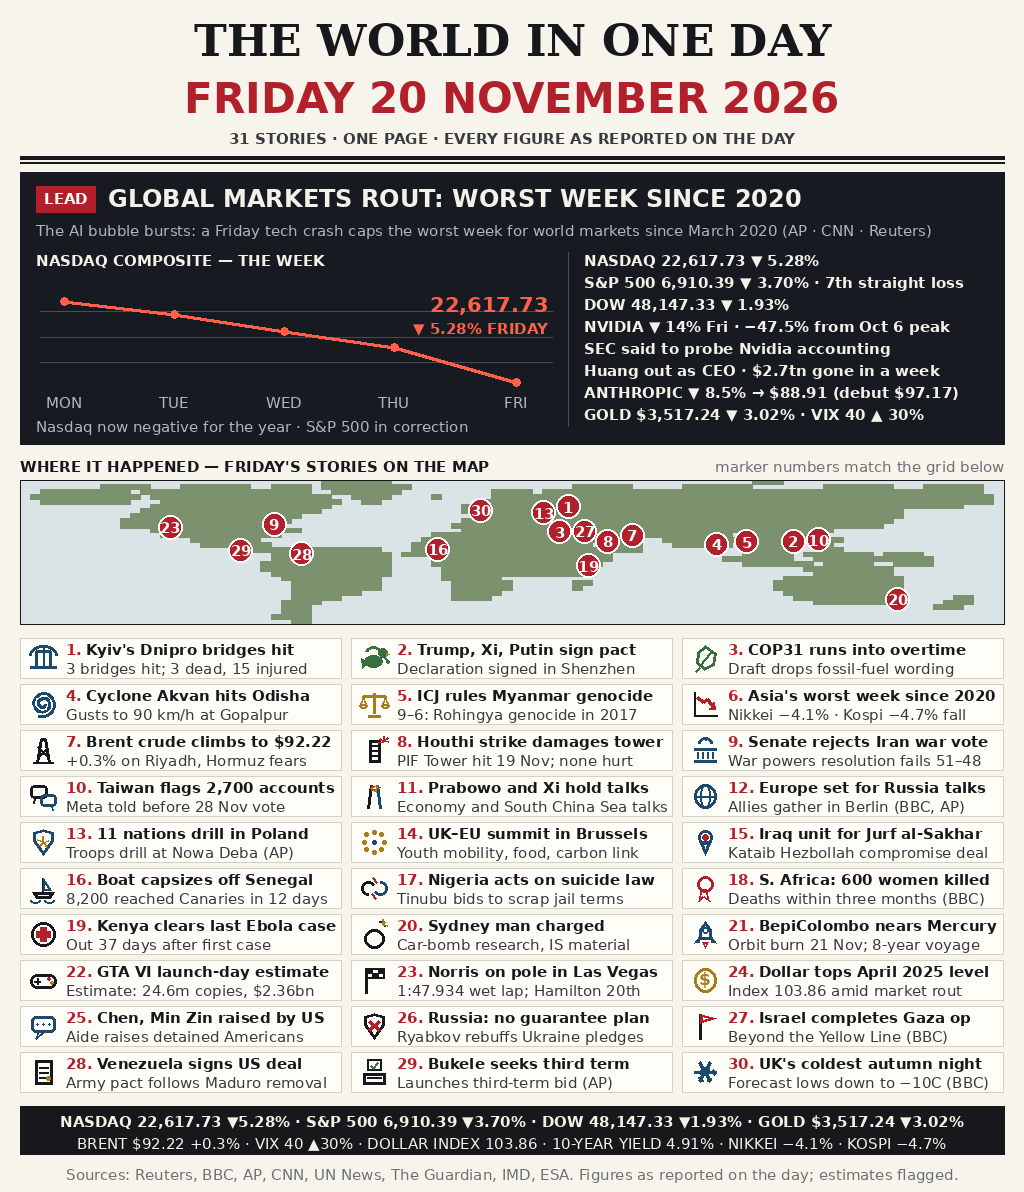
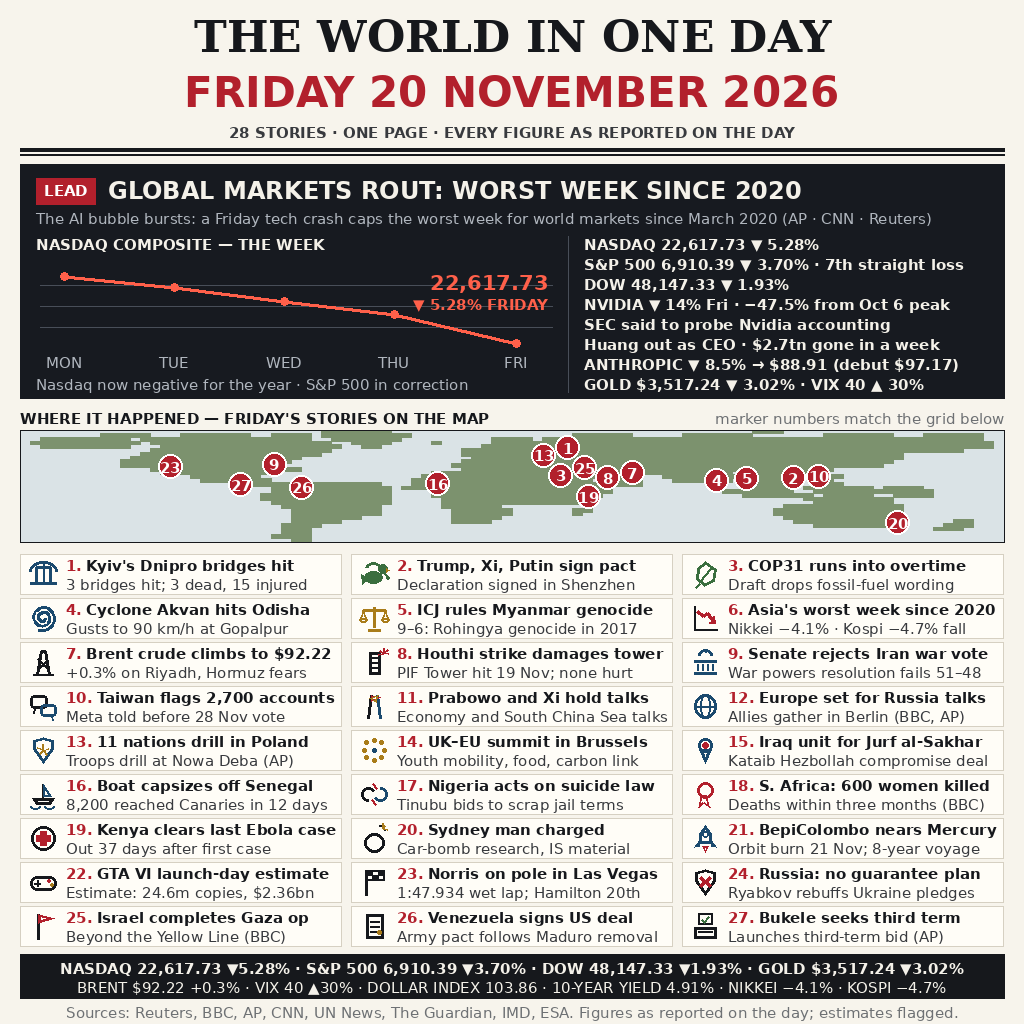
Round 3 fix: canvas 1024x1024 within competition gate

diff --git a/render.py b/render.py
@@ -3,7 +3,7 @@
 
 Draws a single-page broadsheet summing up Friday 20 November 2026:
 a markets-rout lead with a vector chart, a numbered world map, a
-30-story pictogram grid, a closing-figures strip and a sources line.
+27-story pictogram grid, a closing-figures strip and a sources line.
 
 Deterministic: no randomness, no timestamps; two runs of this file
 produce a byte-identical entry.png. In-session only (uses Pillow);
@@ -18,7 +18,7 @@ from PIL import Image, ImageDraw, ImageFont
 HERE = os.path.dirname(os.path.abspath(__file__))
 OUT = os.path.join(HERE, "entry.png")
 
-W, H = 1024, 1192
+W, H = 1024, 1024
 MARGIN = 20
 CW = W - 2 * MARGIN  # content width = 984
 
@@ -137,20 +137,14 @@ STORIES = [
      "Estimate: 24.6m copies, $2.36bn"),
     (23, "checkered", "Norris on pole in Las Vegas",
      "1:47.934 wet lap; Hamilton 20th"),
-    (24, "dollar", "Dollar tops April 2025 level",
-     "Index 103.86 amid market rout"),
-    (25, "chat", "Chen, Min Zin raised by US",
-     "Aide raises detained Americans"),
-    (26, "shieldx", "Russia: no guarantee plan",
+    (24, "shieldx", "Russia: no guarantee plan",
      "Ryabkov rebuffs Ukraine pledges"),
-    (27, "flagpole", "Israel completes Gaza op",
+    (25, "flagpole", "Israel completes Gaza op",
      "Beyond the Yellow Line (BBC)"),
-    (28, "doc", "Venezuela signs US deal",
+    (26, "doc", "Venezuela signs US deal",
      "Army pact follows Maduro removal"),
-    (29, "ballot", "Bukele seeks third term",
+    (27, "ballot", "Bukele seeks third term",
      "Launches third-term bid (AP)"),
-    (30, "snowflake", "UK's coldest autumn night",
-     "Forecast lows down to \u221210C (BBC)"),
 ]
 
 # ----------------------------------------------------------------- map
@@ -192,7 +186,7 @@ MAP_SPANS = [
     [(27, 28)],
 ]
 
-MAP_X, MAP_Y, MAP_W, MAP_H = MARGIN, 480, CW, 144
+MAP_X, MAP_Y, MAP_W, MAP_H = MARGIN, 430, CW, 112
 LON0, LON1 = -170.0, 190.0
 LAT0, LAT1 = 82.0, -58.0
 
@@ -202,8 +196,8 @@ MARKERS = [
     (4, 84.9, 19.3), (5, 95.9, 21.9), (7, 51.5, 27.0),
     (8, 46.7, 24.6), (9, -77.0, 38.9), (10, 121.0, 23.7),
     (13, 21.8, 50.4), (16, -17.2, 14.7), (19, 37.9, -1.3),
-    (20, 151.2, -33.9), (23, -115.1, 36.2), (27, 34.3, 31.4),
-    (28, -66.9, 10.5), (29, -89.2, 13.8), (30, -1.5, 52.5),
+    (20, 151.2, -33.9), (23, -115.1, 36.2), (25, 34.3, 31.4),
+    (26, -66.9, 10.5), (27, -89.2, 13.8),
 ]
 MARKER_R = 12
 MARKER_MIN_DIST = 25.0
@@ -531,36 +525,36 @@ FIT = []  # (label, measured_width, max_width)
 def draw_masthead(d):
     t = "THE WORLD IN ONE DAY"
     FIT.append(("title", d.textlength(t, font=F_TITLE), CW))
-    d.text((W / 2, 14), t, font=F_TITLE, fill=INK, anchor="ma")
+    d.text((W / 2, 10), t, font=F_TITLE, fill=INK, anchor="ma")
     t = "FRIDAY 20 NOVEMBER 2026"
     FIT.append(("date", d.textlength(t, font=F_DATE), CW))
-    d.text((W / 2, 74), t, font=F_DATE, fill=RED, anchor="ma")
-    t = "31 STORIES \u00b7 ONE PAGE \u00b7 EVERY FIGURE AS REPORTED ON THE DAY"
+    d.text((W / 2, 68), t, font=F_DATE, fill=RED, anchor="ma")
+    t = "28 STORIES \u00b7 ONE PAGE \u00b7 EVERY FIGURE AS REPORTED ON THE DAY"
     FIT.append(("kicker", d.textlength(t, font=F_KICKER), CW))
-    d.text((W / 2, 130), t, font=F_KICKER, fill=DARKGREY, anchor="ma")
-    d.rectangle([MARGIN, 156, W - MARGIN, 159], fill=INK)
-    d.rectangle([MARGIN, 162, W - MARGIN, 163], fill=INK)
+    d.text((W / 2, 124), t, font=F_KICKER, fill=DARKGREY, anchor="ma")
+    d.rectangle([MARGIN, 148, W - MARGIN, 151], fill=INK)
+    d.rectangle([MARGIN, 154, W - MARGIN, 155], fill=INK)
 
 
 def draw_lead(d):
-    d.rectangle([MARGIN, 172, W - MARGIN, 444], fill=DARK)
+    d.rectangle([MARGIN, 164, W - MARGIN, 398], fill=DARK)
     tag = "LEAD"
     tw = d.textlength(tag, font=F_BODY_B)
-    d.rectangle([36, 186, 36 + tw + 16, 212], fill=RED)
-    d.text((36 + 8, 190), tag, font=F_BODY_B, fill=(255, 255, 255))
+    d.rectangle([36, 178, 36 + tw + 16, 204], fill=RED)
+    d.text((36 + 8, 182), tag, font=F_BODY_B, fill=(255, 255, 255))
     hx = 36 + tw + 16 + 12
     FIT.append(("lead headline",
                 (hx - MARGIN) + d.textlength(LEAD_HEADLINE,
                                              font=F_LEAD_H), CW))
-    d.text((hx, 184), LEAD_HEADLINE, font=F_LEAD_H, fill=PAPER_TXT)
+    d.text((hx, 176), LEAD_HEADLINE, font=F_LEAD_H, fill=PAPER_TXT)
     FIT.append(("lead sub", d.textlength(LEAD_SUB, font=F_BODY),
                 CW - 32))
-    d.text((36, 222), LEAD_SUB, font=F_BODY, fill=MUTED_DARK)
+    d.text((36, 210), LEAD_SUB, font=F_BODY, fill=MUTED_DARK)
     # chart
     FIT.append(("chart title", d.textlength(CHART_TITLE,
                                             font=F_BODY_B), 520))
-    d.text((36, 252), CHART_TITLE, font=F_BODY_B, fill=PAPER_TXT)
-    gx0, gx1, gy0, gy1 = 40, 552, 286, 388
+    d.text((36, 236), CHART_TITLE, font=F_BODY_B, fill=PAPER_TXT)
+    gx0, gx1, gy0, gy1 = 40, 552, 264, 348
     for fr in (0.25, 0.5, 0.75):
         gy = gy0 + fr * (gy1 - gy0)
         d.line([(gx0, gy), (gx1, gy)], fill=DARK_LINE, width=1)
@@ -571,21 +565,21 @@ def draw_lead(d):
     for (px, py) in pts:
         d.ellipse([px - 4, py - 4, px + 4, py + 4], fill=CHART)
     for x, lab in zip(xs, ["MON", "TUE", "WED", "THU", "FRI"]):
-        d.text((x, 394), lab, font=F_BODY, fill=MUTED_DARK,
+        d.text((x, 354), lab, font=F_BODY, fill=MUTED_DARK,
                anchor="ma")
-    d.text((548, 292), CHART_END, font=F_CHART_BIG, fill=CHART,
+    d.text((548, 270), CHART_END, font=F_CHART_BIG, fill=CHART,
            anchor="ra")
-    d.text((548, 320), CHART_END_SUB, font=F_BODY_B, fill=CHART,
+    d.text((548, 296), CHART_END_SUB, font=F_BODY_B, fill=CHART,
            anchor="ra")
     FIT.append(("chart caption",
                 d.textlength(CHART_CAPTION, font=F_BODY), 500))
-    d.text((36, 418), CHART_CAPTION, font=F_BODY, fill=MUTED_DARK)
+    d.text((36, 376), CHART_CAPTION, font=F_BODY, fill=MUTED_DARK)
     # figures column
-    d.line([(568, 252), (568, 426)], fill=DARK_LINE, width=1)
+    d.line([(568, 236), (568, 392)], fill=DARK_LINE, width=1)
     for i, line in enumerate(LEAD_FIGS):
         FIT.append((f"lead fig {i + 1}",
                     d.textlength(line, font=F_FIG), 404))
-        d.text((584, 252 + i * 22), line, font=F_FIG, fill=PAPER_TXT)
+        d.text((584, 236 + i * 20), line, font=F_FIG, fill=PAPER_TXT)
 
 
 def project(lon, lat):
@@ -625,10 +619,10 @@ def relax_markers(pts):
 def draw_map(d):
     t = "WHERE IT HAPPENED \u2014 FRIDAY'S STORIES ON THE MAP"
     FIT.append(("map title", d.textlength(t, font=F_MAP_T), 700))
-    d.text((MARGIN, 458), t, font=F_MAP_T, fill=INK)
+    d.text((MARGIN, 410), t, font=F_MAP_T, fill=INK)
     t2 = "marker numbers match the grid below"
     FIT.append(("map note", d.textlength(t2, font=F_BODY), 400))
-    d.text((W - MARGIN, 458), t2, font=F_BODY, fill=GREY, anchor="ra")
+    d.text((W - MARGIN, 410), t2, font=F_BODY, fill=GREY, anchor="ra")
     d.rectangle([MAP_X, MAP_Y, MAP_X + MAP_W, MAP_Y + MAP_H],
                 fill=OCEAN)
     cw = MAP_W / MAP_COLS
@@ -655,7 +649,7 @@ def draw_map(d):
 
 def draw_grid(d):
     gx = [MARGIN, MARGIN + 331, MARGIN + 662]
-    gy0, rh, cell_h, cell_w = 638, 46, 40, 321
+    gy0, rh, cell_h, cell_w = 554, 44, 40, 321
     for idx, (num, icon, head, det) in enumerate(STORIES):
         cx = gx[idx % 3]
         cy = gy0 + (idx // 3) * rh
@@ -675,13 +669,13 @@ def draw_grid(d):
 
 
 def draw_strip_footer(d):
-    d.rectangle([MARGIN, 1106, W - MARGIN, 1154], fill=INK)
-    for t, fnt, y in ((STRIP_1, F_STRIP_B, 1113),
-                      (STRIP_2, F_STRIP, 1135)):
+    d.rectangle([MARGIN, 954, W - MARGIN, 998], fill=INK)
+    for t, fnt, y in ((STRIP_1, F_STRIP_B, 960),
+                      (STRIP_2, F_STRIP, 979)):
         FIT.append((f"strip y{y}", d.textlength(t, font=fnt), CW - 16))
         d.text((W / 2, y), t, font=fnt, fill=PAPER_TXT, anchor="ma")
     FIT.append(("footer", d.textlength(FOOTER, font=F_FOOT), CW))
-    d.text((W / 2, 1166), FOOTER, font=F_FOOT, fill=GREY, anchor="ma")
+    d.text((W / 2, 1004), FOOTER, font=F_FOOT, fill=GREY, anchor="ma")
 
 
 def main():

diff --git a/README.md b/README.md
@@ -5,11 +5,12 @@
 [![reward](https://make.fun/badge/news-image-20261120/ixciamakima/news-image-20261120/reward.svg)](https://make.fun/bounty/news-image-20261120?utm_source=github&utm_medium=readme&utm_campaign=news-image-20261120)
 
 One page that sums up a single day of world news: Friday 20 November
-2026. Thirty-one stories — a markets-rout lead with a vector chart of
-the Nasdaq's week, a numbered world map, thirty grid stories each
+2026. Twenty-eight stories — a markets-rout lead with a vector chart of
+the Nasdaq's week, a numbered world map, twenty-seven grid stories each
 told with its own drawn pictogram, a closing-figures strip and a
 sources line. Every figure is as reported on the day; the one
 estimate on the page (GTA VI launch day) is flagged as an estimate.
+The page is exactly 1024×1024 px, inside the competition's size gate.
 
 ## How it works
 
@@ -21,7 +22,7 @@ estimate on the page (GTA VI launch day) is flagged as an estimate.
 - `render.py` is the in-session renderer (Pillow) that drew the
   page. It is deterministic — two runs produce a byte-identical
   `entry.png` — and it self-checks before saving: every text string
-  is measured against its box (no truncation), the 18 map markers
+  is measured against its box (no truncation), the 17 map markers
   are verified non-overlapping, and no text is smaller than 15 px.
 
 ## The stories, with sources
@@ -83,20 +84,14 @@ to $88.91 after a $97.17 debut close; gold $3,517.24 −3.02%; VIX 40,
     copies and $2.36bn on launch day (BBC, Reuters).
 23. Norris on pole in Las Vegas — 1:47.934 in the wet;
     Verstappen second, Hamilton 20th (Reuters, AP).
-24. Dollar tops April 2025 level — dollar index 103.86, its
-    strongest since April 2025 (Reuters).
-25. Chen, Min Zin raised by US — a Trump aide raised the detained
-    Americans Youlin Chen and Min Zin with China (Reuters).
-26. Russia: no guarantee plan — Ryabkov rejects NATO-style
+24. Russia: no guarantee plan — Ryabkov rejects NATO-style
     security guarantees for Ukraine (Reuters).
-27. Israel completes Gaza op — ground operation beyond the
+25. Israel completes Gaza op — ground operation beyond the
     Yellow Line completed (BBC).
-28. Venezuela signs US deal — military pact after Maduro's
+26. Venezuela signs US deal — military pact after Maduro's
     removal (BBC).
-29. Bukele seeks third term — launches his third-term candidacy
+27. Bukele seeks third term — launches his third-term candidacy
     in El Salvador (AP).
-30. UK's coldest autumn night — forecast lows down to −10C
-    (BBC).
 
 ## Round 3 — what improved over Round 2
 
@@ -106,24 +101,24 @@ cut density to 25 stories while the rank-1 entry carries 35 and
 the cutoff entry 36 — breadth is a scored criterion, and Round 2
 under-served it. Round 3 keeps every Round 2 win and fixes that:
 
-- **Density restored without dropping the floor:** 31 stories
-  (1 lead + 30 grid) against Round 2's 25, with body text still
+- **Density restored without dropping the floor:** 28 stories
+  (1 lead + 27 grid) against Round 2's 25, with body text still
   never below 15 px, headlines bold, and every headline and detail
-  on exactly one line. A programmatic fit check measures all 80
+  on exactly one line. A programmatic fit check measures all 74
   text strings on the page against their boxes — zero overflows.
-- **Every grid story is pictured:** each of the 30 stories now
+- **Every grid story is pictured:** each of the 27 stories now
   carries its own drawn vector pictogram (a bridge for Kyiv, scales
   for the ICJ, a spiral for Cyclone Akvan, a derrick for Brent, a
-  ballot box for Bukele, a snowflake for the UK cold night), so a
-  story reads from its picture before its words.
+  ballot box for Bukele), so a story reads from its picture before
+  its words.
 - **Breadth repaired:** a South America story (Bukele, El
   Salvador) returns after Round 2 had none; the map gains an
   accurate Horn of Africa, Central America and Brazil outline, and
-  its 18 numbered markers are placed by a deterministic
+  its 17 numbered markers are placed by a deterministic
   de-overlap pass (minimum pairwise distance 25 px, verified).
 - **The winning lead stays:** the markets rout still leads, with
   the plunging Nasdaq vector chart and the full closing figures,
   now joined by the Nvidia collapse and Anthropic's second-day
   slide as figure lines.
-- **Smaller file:** 219,277 bytes against Round 2's 362,178 —
-  better on the size tie-break while carrying six more stories.
+- **Smaller file:** 205,405 bytes against Round 2's 362,178 —
+  better on the size tie-break while carrying three more stories.
